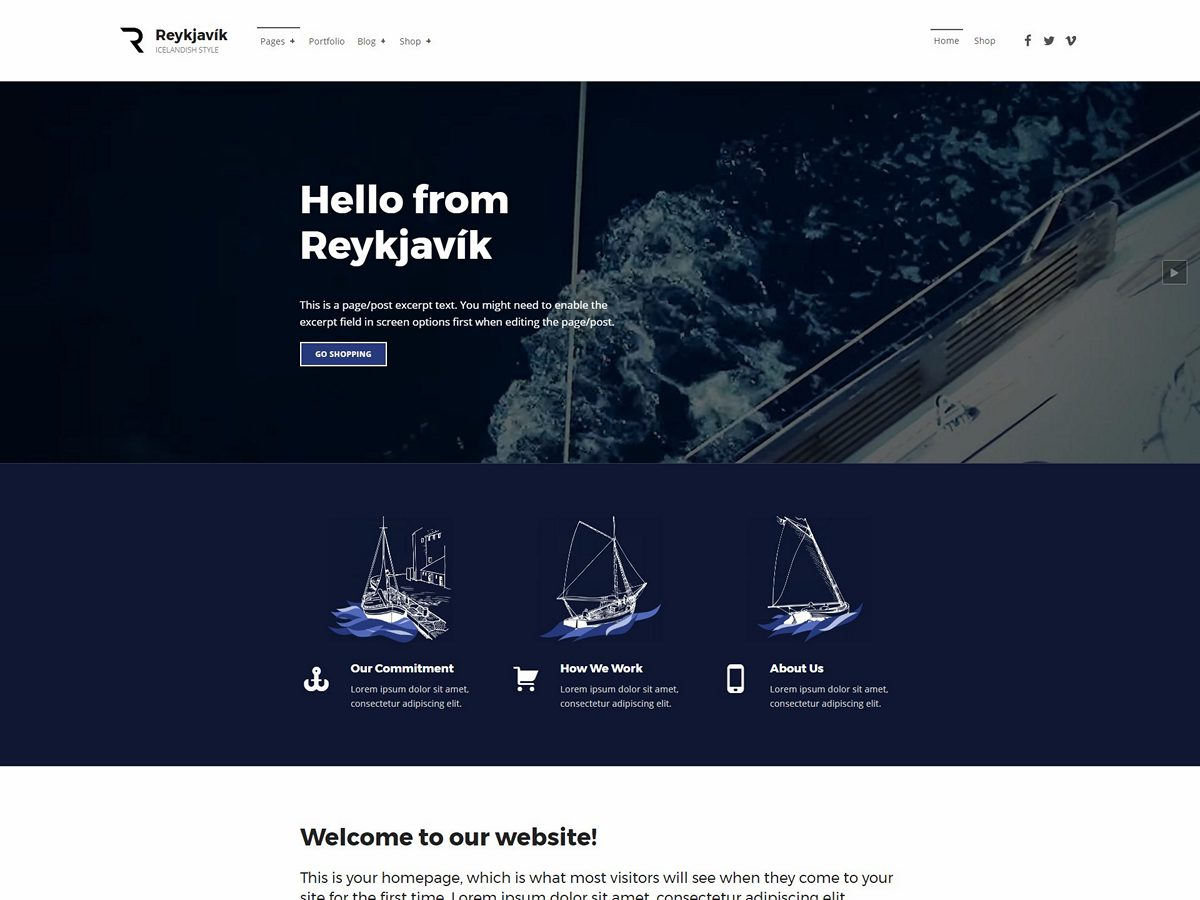
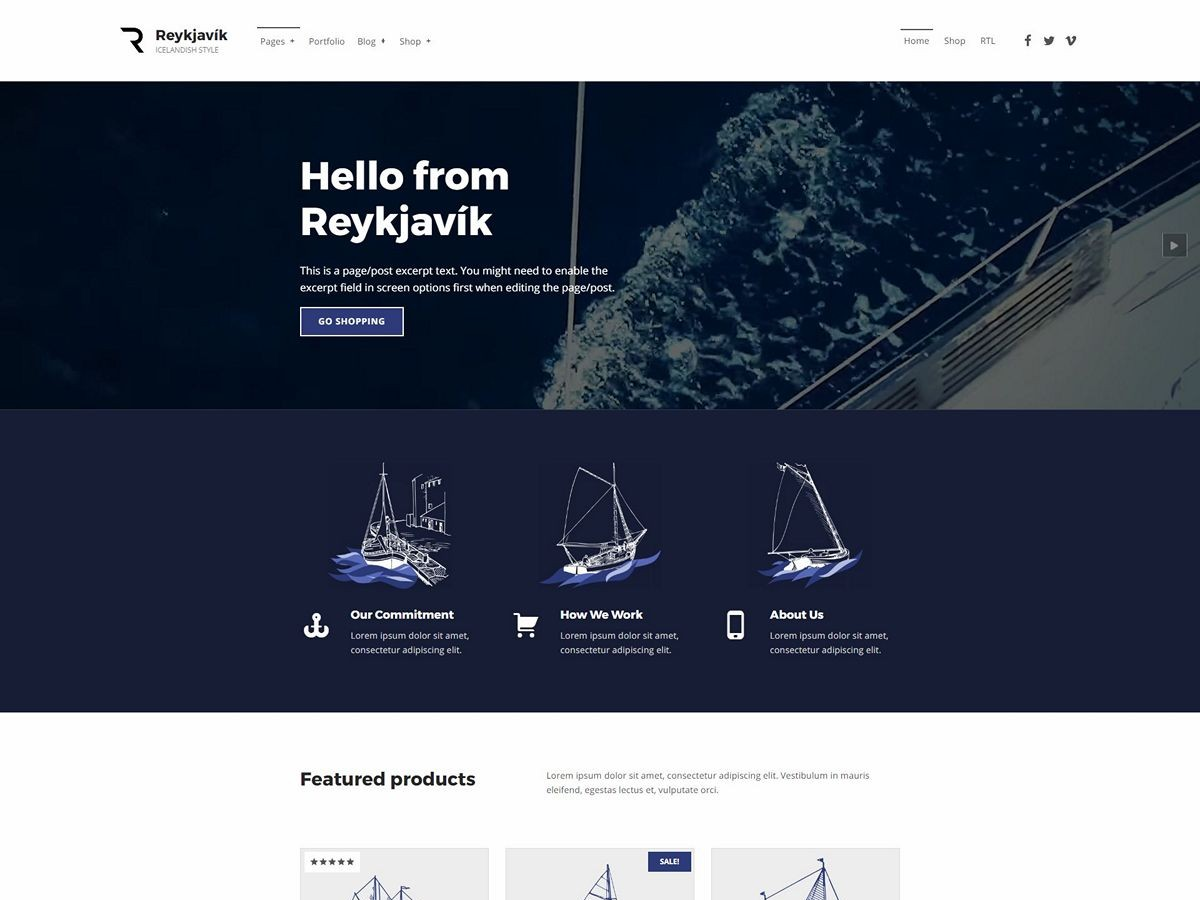
0.9.9 * Updating theme screenshot * Fixing paginated page title suffix styles * WC: Fixing page title styles when intro is disabled * WC: Updating theme starter content WooCommerce shortcodes to version 3.2+ compatible

diff --git a/assets/css/main-rtl.css b/assets/css/main-rtl.css
@@ -351,7 +351,7 @@ input, select, textarea, .mobile-search-form, .widget_archive li::before, .widge
 
 blockquote blockquote, .widget-recent-entries-list .entry-title, .sidebar .widget-recent-entries-list .entry-title, .widget-area .widget-recent-entries-list .entry-title, div.sharedaddy .sd-title { font-size: 1em; }
 
-.font-size-xs, .entry-title small, .page-title small, .entry-subtitle { font-size: 0.62em; }
+.font-size-xs, .entry-subtitle { font-size: 0.62em; }
 
 blockquote cite, code, pre, small, .small, .font-size-s, .wp-caption-text, #cancel-comment-reply-link, .comment-form label, .comments-title .add-comment-link, .comment-metadata, .comment .reply, .site-description, .menu-item-description, .single.fl-builder .posts .entry-meta, .single.content-layout-no-paddings .posts .entry-meta, .posts .entry-meta, .nav-links .label, .widget-recent-entries-list .month, .sidebar .widget-recent-entries-list .link-more, .widget-area .widget-recent-entries-list .link-more, .widget .entry-subtitle { font-size: 0.81em; }
 
@@ -369,7 +369,7 @@ blockquote, .font-size-l, .comments-title, .social-links, .widget-recent-entries
 
 blockquote, .weight-300, .search-results .page-title, .author .intro-title span, .post-table-of-contents .is-passed a, .comments-title span, .intro .entry-subtitle { font-weight: 300; }
 
-blockquote cite, .weight-400, #cancel-comment-reply-link, .comments-title .add-comment-link, .button:disabled, button:disabled, input[type="button"]:disabled, input[type="reset"]:disabled, input[type="submit"]:disabled, .main-navigation-container .button > a:disabled, .child-page .more-link:disabled, .post-table-of-contents .is-current a, .entry-meta-description, .sidebar .widget-recent-entries-list .link-more, .widget-area .widget-recent-entries-list .link-more, .entry-subtitle, .widget .entry-subtitle { font-weight: 400; }
+blockquote cite, .weight-400, #cancel-comment-reply-link, .comments-title .add-comment-link, .button:disabled, button:disabled, input[type="button"]:disabled, input[type="reset"]:disabled, input[type="submit"]:disabled, .main-navigation-container .button > a:disabled, .child-page .more-link:disabled, .entry-title small, .page-title small, .post-table-of-contents .is-current a, .entry-meta-description, .sidebar .widget-recent-entries-list .link-more, .widget-area .widget-recent-entries-list .link-more, .entry-subtitle, .widget .entry-subtitle { font-weight: 400; }
 
 .weight-500 { font-weight: 500; }
 
@@ -1268,6 +1268,10 @@ h1.screen-reader-text, .comments-title h1.add-comment-link, h2.screen-reader-tex
 
 .entry-title, .page-title { padding: 0; margin: 0 0 2.6244rem; }
 
+.entry-title small, .page-title small { display: block; margin-top: 0.38rem; }
+
+@media only screen and (min-width: 42em) { .entry-title small, .page-title small { display: inline-block; margin-top: 1em; margin-right: 0.38rem; font-size: 0.5em; vertical-align: top; } }
+
 /* FILE: main/headings/__widget-title.scss */
 .widget-title, .widget-title-style .widgettitle { margin: 0 0 2.6244rem; font-size: 1.272rem; }
 
@@ -1350,7 +1354,7 @@ h1.screen-reader-text, .comments-title h1.add-comment-link, h2.screen-reader-tex
 
 .intro .intro-title { color: inherit; }
 
-.intro-title a { color: inherit; }
+.intro-title a { display: inline-block; color: inherit; }
 
 @media only screen and (min-width: 80em) { .intro-title.has-page-summary { float: right; width: 58.944%; } }
 

diff --git a/assets/css/main.css b/assets/css/main.css
@@ -349,7 +349,7 @@ input, select, textarea, .mobile-search-form, .widget_archive li::before, .widge
 
 blockquote blockquote, .widget-recent-entries-list .entry-title, .sidebar .widget-recent-entries-list .entry-title, .widget-area .widget-recent-entries-list .entry-title, div.sharedaddy .sd-title { font-size: 1em; }
 
-.font-size-xs, .entry-title small, .page-title small, .entry-subtitle { font-size: 0.62em; }
+.font-size-xs, .entry-subtitle { font-size: 0.62em; }
 
 blockquote cite, code, pre, small, .small, .font-size-s, .wp-caption-text, #cancel-comment-reply-link, .comment-form label, .comments-title .add-comment-link, .comment-metadata, .comment .reply, .site-description, .menu-item-description, .single.fl-builder .posts .entry-meta, .single.content-layout-no-paddings .posts .entry-meta, .posts .entry-meta, .nav-links .label, .widget-recent-entries-list .month, .sidebar .widget-recent-entries-list .link-more, .widget-area .widget-recent-entries-list .link-more, .widget .entry-subtitle { font-size: 0.81em; }
 
@@ -367,7 +367,7 @@ blockquote, .font-size-l, .comments-title, .social-links, .widget-recent-entries
 
 blockquote, .weight-300, .search-results .page-title, .author .intro-title span, .post-table-of-contents .is-passed a, .comments-title span, .intro .entry-subtitle { font-weight: 300; }
 
-blockquote cite, .weight-400, #cancel-comment-reply-link, .comments-title .add-comment-link, .button:disabled, button:disabled, input[type="button"]:disabled, input[type="reset"]:disabled, input[type="submit"]:disabled, .main-navigation-container .button > a:disabled, .child-page .more-link:disabled, .post-table-of-contents .is-current a, .entry-meta-description, .sidebar .widget-recent-entries-list .link-more, .widget-area .widget-recent-entries-list .link-more, .entry-subtitle, .widget .entry-subtitle { font-weight: 400; }
+blockquote cite, .weight-400, #cancel-comment-reply-link, .comments-title .add-comment-link, .button:disabled, button:disabled, input[type="button"]:disabled, input[type="reset"]:disabled, input[type="submit"]:disabled, .main-navigation-container .button > a:disabled, .child-page .more-link:disabled, .entry-title small, .page-title small, .post-table-of-contents .is-current a, .entry-meta-description, .sidebar .widget-recent-entries-list .link-more, .widget-area .widget-recent-entries-list .link-more, .entry-subtitle, .widget .entry-subtitle { font-weight: 400; }
 
 .weight-500 { font-weight: 500; }
 
@@ -1266,6 +1266,10 @@ h1.screen-reader-text, .comments-title h1.add-comment-link, h2.screen-reader-tex
 
 .entry-title, .page-title { padding: 0; margin: 0 0 2.6244rem; }
 
+.entry-title small, .page-title small { display: block; margin-top: 0.38rem; }
+
+@media only screen and (min-width: 42em) { .entry-title small, .page-title small { display: inline-block; margin-top: 1em; margin-left: 0.38rem; font-size: 0.5em; vertical-align: top; } }
+
 /* FILE: main/headings/__widget-title.scss */
 .widget-title, .widget-title-style .widgettitle { margin: 0 0 2.6244rem; font-size: 1.272rem; }
 
@@ -1348,7 +1352,7 @@ h1.screen-reader-text, .comments-title h1.add-comment-link, h2.screen-reader-tex
 
 .intro .intro-title { color: inherit; }
 
-.intro-title a { color: inherit; }
+.intro-title a { display: inline-block; color: inherit; }
 
 @media only screen and (min-width: 80em) { .intro-title.has-page-summary { float: left; width: 58.944%; } }
 

diff --git a/assets/css/woocommerce-rtl.css b/assets/css/woocommerce-rtl.css
@@ -52,6 +52,8 @@ ul.order_details::after { background-position: 0 0; top: auto; bottom: -0.5em; }
 
 .woocommerce mark, #page .woocommerce mark { margin: 0; font-weight: 700; background: none; color: inherit; box-shadow: none; -webkit-box-decoration-break: slice; box-decoration-break: slice; }
 
+.woocommerce-products-header .page-title { margin-bottom: 2.6244rem; }
+
 .title .edit { display: inline-block; padding: 0.38em 1em; margin-bottom: 1em; font-size: 0.81rem; font-weight: 700; text-transform: uppercase; text-decoration: none; letter-spacing: .075em; border: 2px solid; transition: border-color 0.3s; }
 
 .title .edit:hover, .title .edit:active, .title .edit:focus { border-color: transparent; }

diff --git a/assets/css/woocommerce.css b/assets/css/woocommerce.css
@@ -52,6 +52,8 @@ ul.order_details::after { background-position: 0 0; top: auto; bottom: -0.5em; }
 
 .woocommerce mark, #page .woocommerce mark { margin: 0; font-weight: 700; background: none; color: inherit; box-shadow: none; -webkit-box-decoration-break: slice; box-decoration-break: slice; }
 
+.woocommerce-products-header .page-title { margin-bottom: 2.6244rem; }
+
 .title .edit { display: inline-block; padding: 0.38em 1em; margin-bottom: 1em; font-size: 0.81rem; font-weight: 700; text-transform: uppercase; text-decoration: none; letter-spacing: .075em; border: 2px solid; transition: border-color 0.3s; }
 
 .title .edit:hover, .title .edit:active, .title .edit:focus { border-color: transparent; }

diff --git a/assets/scss/main/headings/__entry-header.scss b/assets/scss/main/headings/__entry-header.scss
@@ -38,9 +38,23 @@
 		padding: 0;
 		margin: 0 0 ( power( $golden, 2 ) +rem );
 
-		small {
-			@extend %font_size_tiny;
-		}
+		// Paginated title suffix
+
+			small {
+				@extend %font_weight_400;
+				display: block;
+				margin-top: $golden_minor +rem;
+
+				@include responsive( map_get( $breakpoint, 'm' ) ) {
+					$pagination_suffix_font_size: .5; // In em.
+					display: inline-block;
+					margin-top: ( 1 - $pagination_suffix_font_size ) / $pagination_suffix_font_size +em;
+					margin-#{$left}: $golden_minor +rem; // {{RTL}}
+					font-size: $pagination_suffix_font_size +em;
+					vertical-align: top;
+				}
+
+			}
 
 	}
 

diff --git a/assets/scss/woocommerce/main/__global.scss b/assets/scss/woocommerce/main/__global.scss
@@ -38,6 +38,10 @@
 
 	.woocommerce-products-header {
 
+		.page-title {
+			margin-bottom: power( $golden, 2 ) +rem;
+		}
+
 		.has-intro & .page-title {
 			@extend %wc_screen_reader_hiding;
 		}

diff --git a/assets/scss/main/header/__intro.scss b/assets/scss/main/header/__intro.scss
@@ -93,6 +93,7 @@
 			}
 
 			a {
+				display: inline-block; // To make pagination suffix float the same line when subtitle is displayed.
 				color: inherit;
 			}
 

diff --git a/assets/scss/woocommerce/tabs/__reviews.scss b/assets/scss/woocommerce/tabs/__reviews.scss
@@ -143,6 +143,6 @@
 }
 
 .commentlist {
-	margin-#{$left}: 0;
+	margin-#{$left}: 0; // {{RTL}}
 	list-style: none;
 }

diff --git a/includes/starter-content/class-starter-content.php b/includes/starter-content/class-starter-content.php
@@ -210,7 +210,7 @@ class Reykjavik_Starter_Content {
 							                  esc_html_x( 'Featured products', 'Theme starter content', 'reykjavik' ) .
 							                  '</h2><p>Lorem ipsum dolor sit amet, consectetur adipiscing elit. Vestibulum in mauris eleifend, egestas lectus et, vulputate orci. Integer in leo eget justo hendrerit consequat.</p>' .
 							                  '<div class="outdent-content">' .
-							                  '[featured_products per_page="3" columns="3"]' .
+							                  '[products visibility="featured" limit="3" columns="3" orderby="date" order="DESC"]' .
 							                  '<p><em><small>' .
 							                  esc_html_x( 'You need to have WooCommerce plugin installed and activated for this shortcode to display your products.', 'Theme starter content', 'reykjavik' ) .
 							                  '</small></em></p><p>&nbsp;</p><img src="' . trailingslashit( get_template_directory_uri() ) . 'assets/images/starter-content/waves.jpg" alt="" />' .
@@ -220,7 +220,7 @@ class Reykjavik_Starter_Content {
 							                  esc_html_x( 'Shop categories', 'Theme starter content', 'reykjavik' ) .
 							                  '</h2><p>Lorem ipsum dolor sit amet, consectetur adipiscing elit. Vestibulum in mauris eleifend, egestas lectus et, vulputate orci. Integer in leo eget justo hendrerit consequat.</p>' .
 							                  '<div class="outdent-content">' .
-							                  '[product_categories per_page="3" columns="6"]' .
+							                  '[product_categories limit="3" columns="3"]' .
 							                  '<p><em><small>' .
 							                  esc_html_x( 'You need to have WooCommerce plugin installed and activated for this shortcode to display your product categories.', 'Theme starter content', 'reykjavik' ) .
 							                  '</small></em></p><p>&nbsp;</p><img src="' . trailingslashit( get_template_directory_uri() ) . 'assets/images/starter-content/waves.jpg" alt="" />' .
